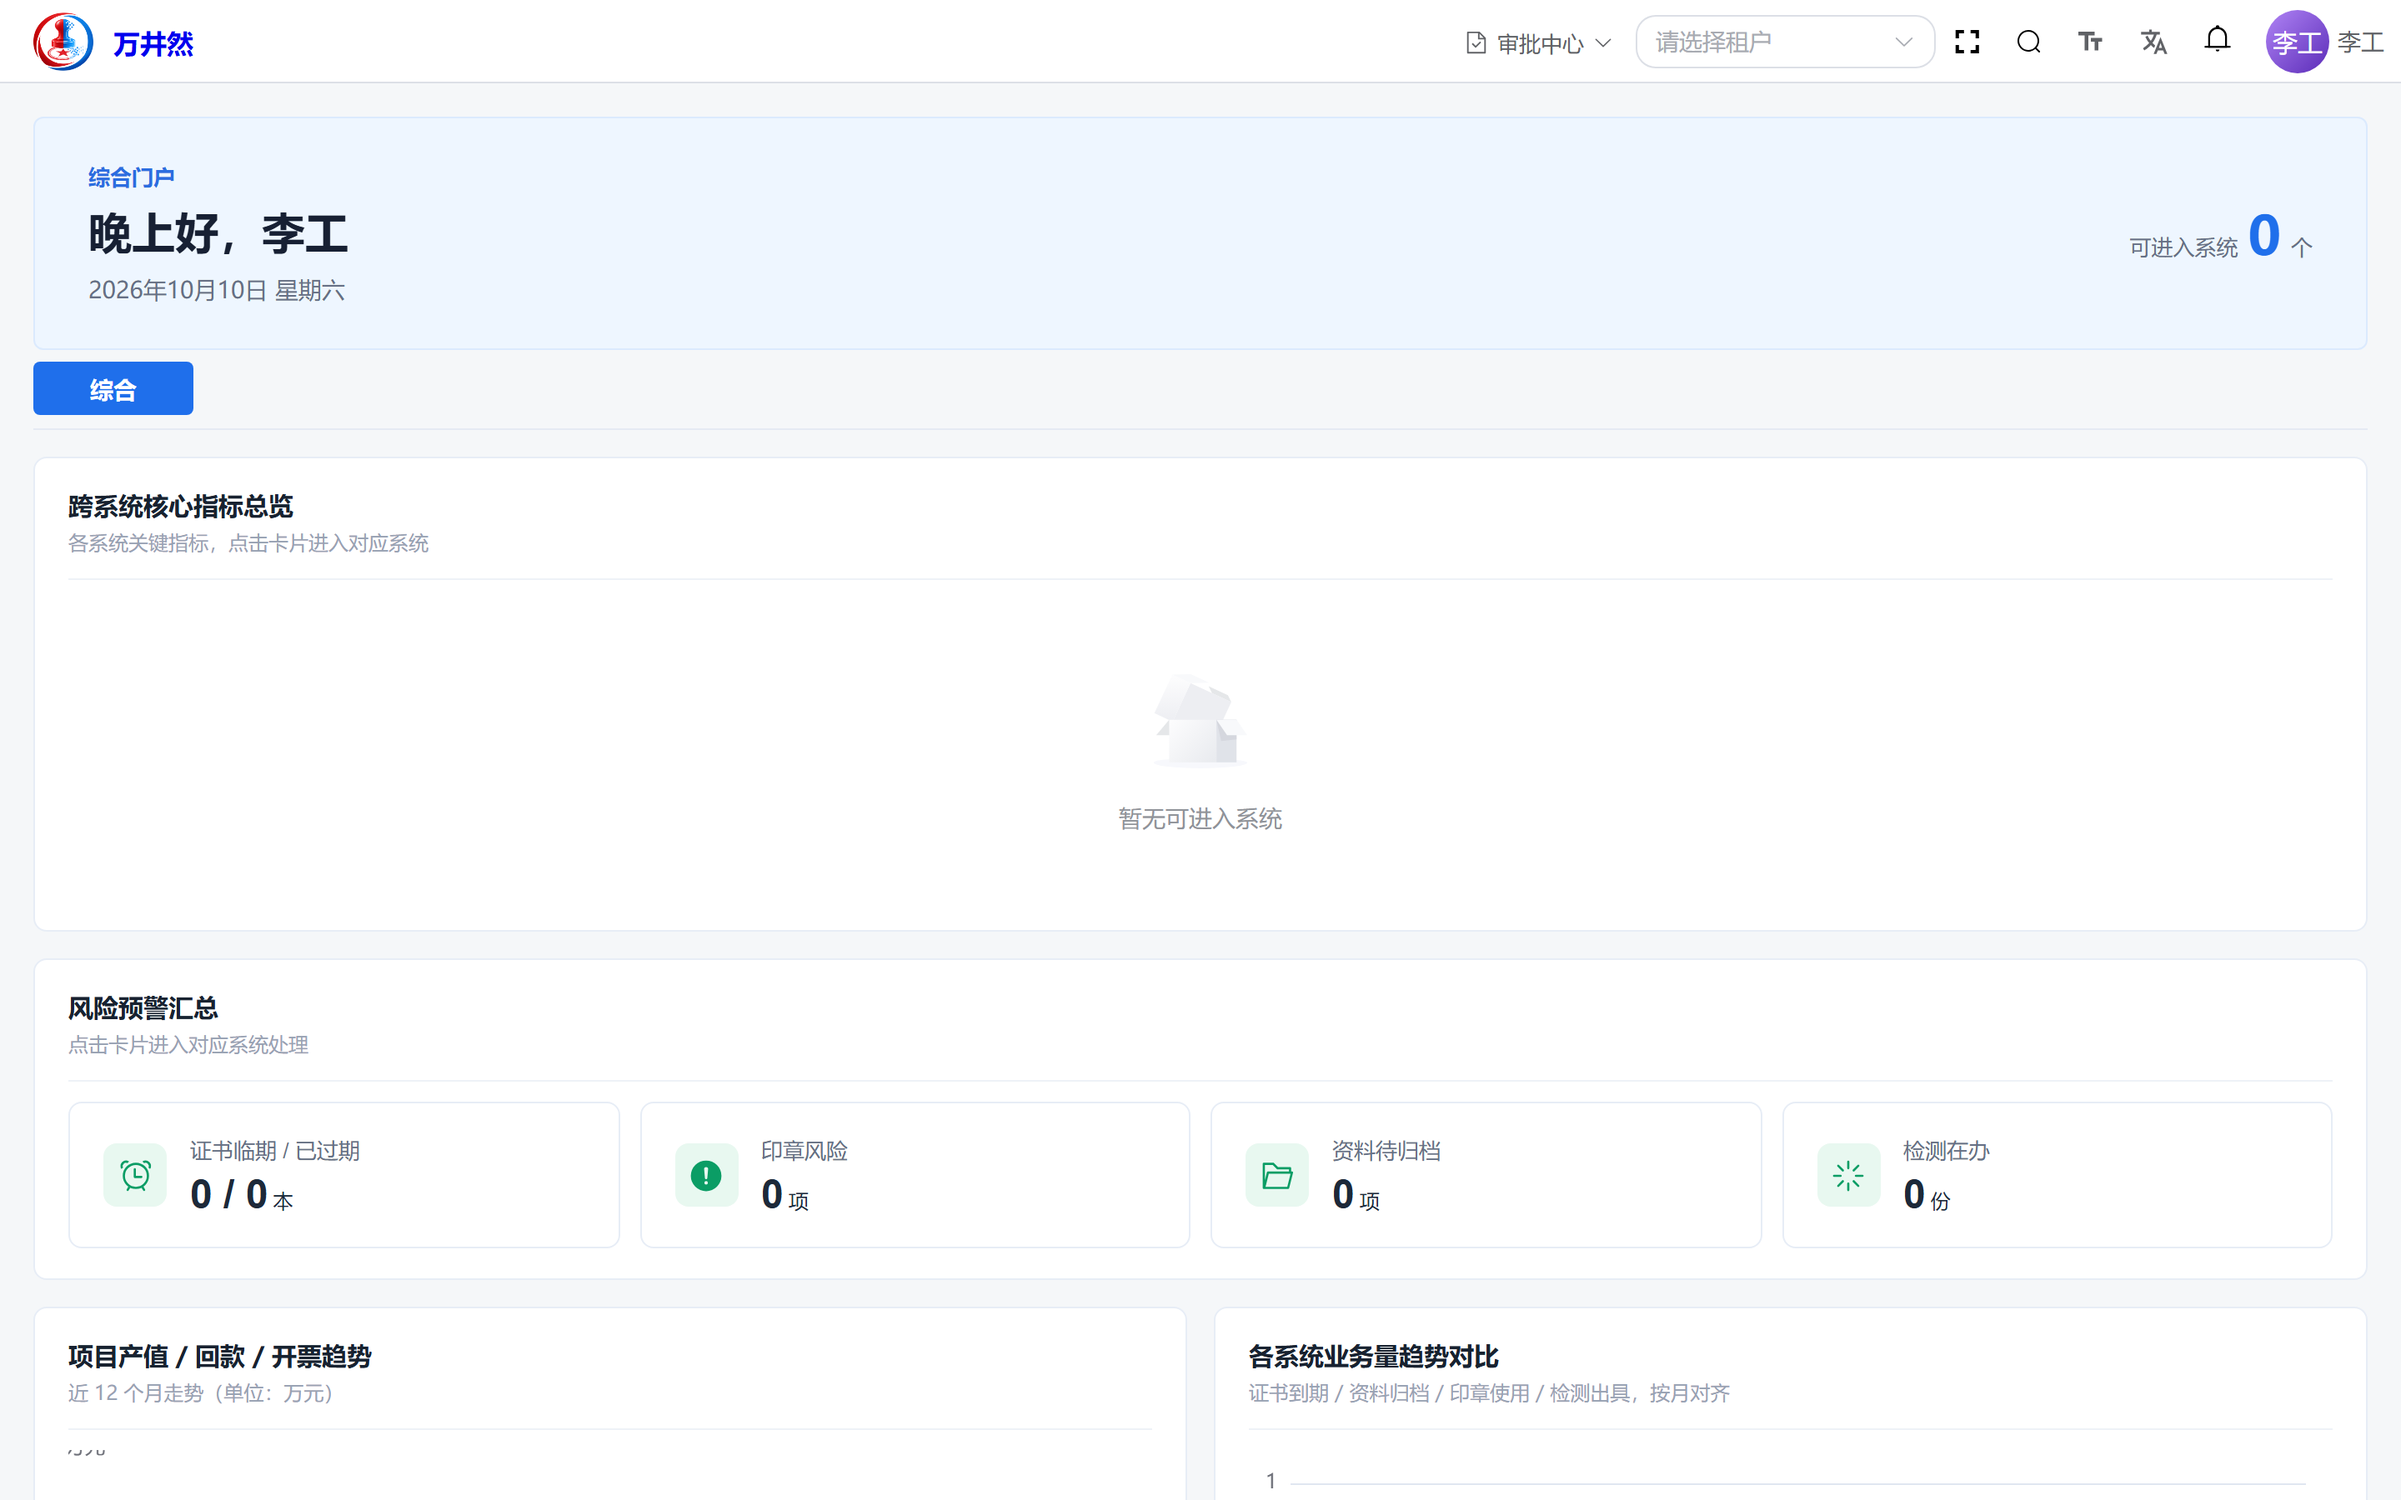
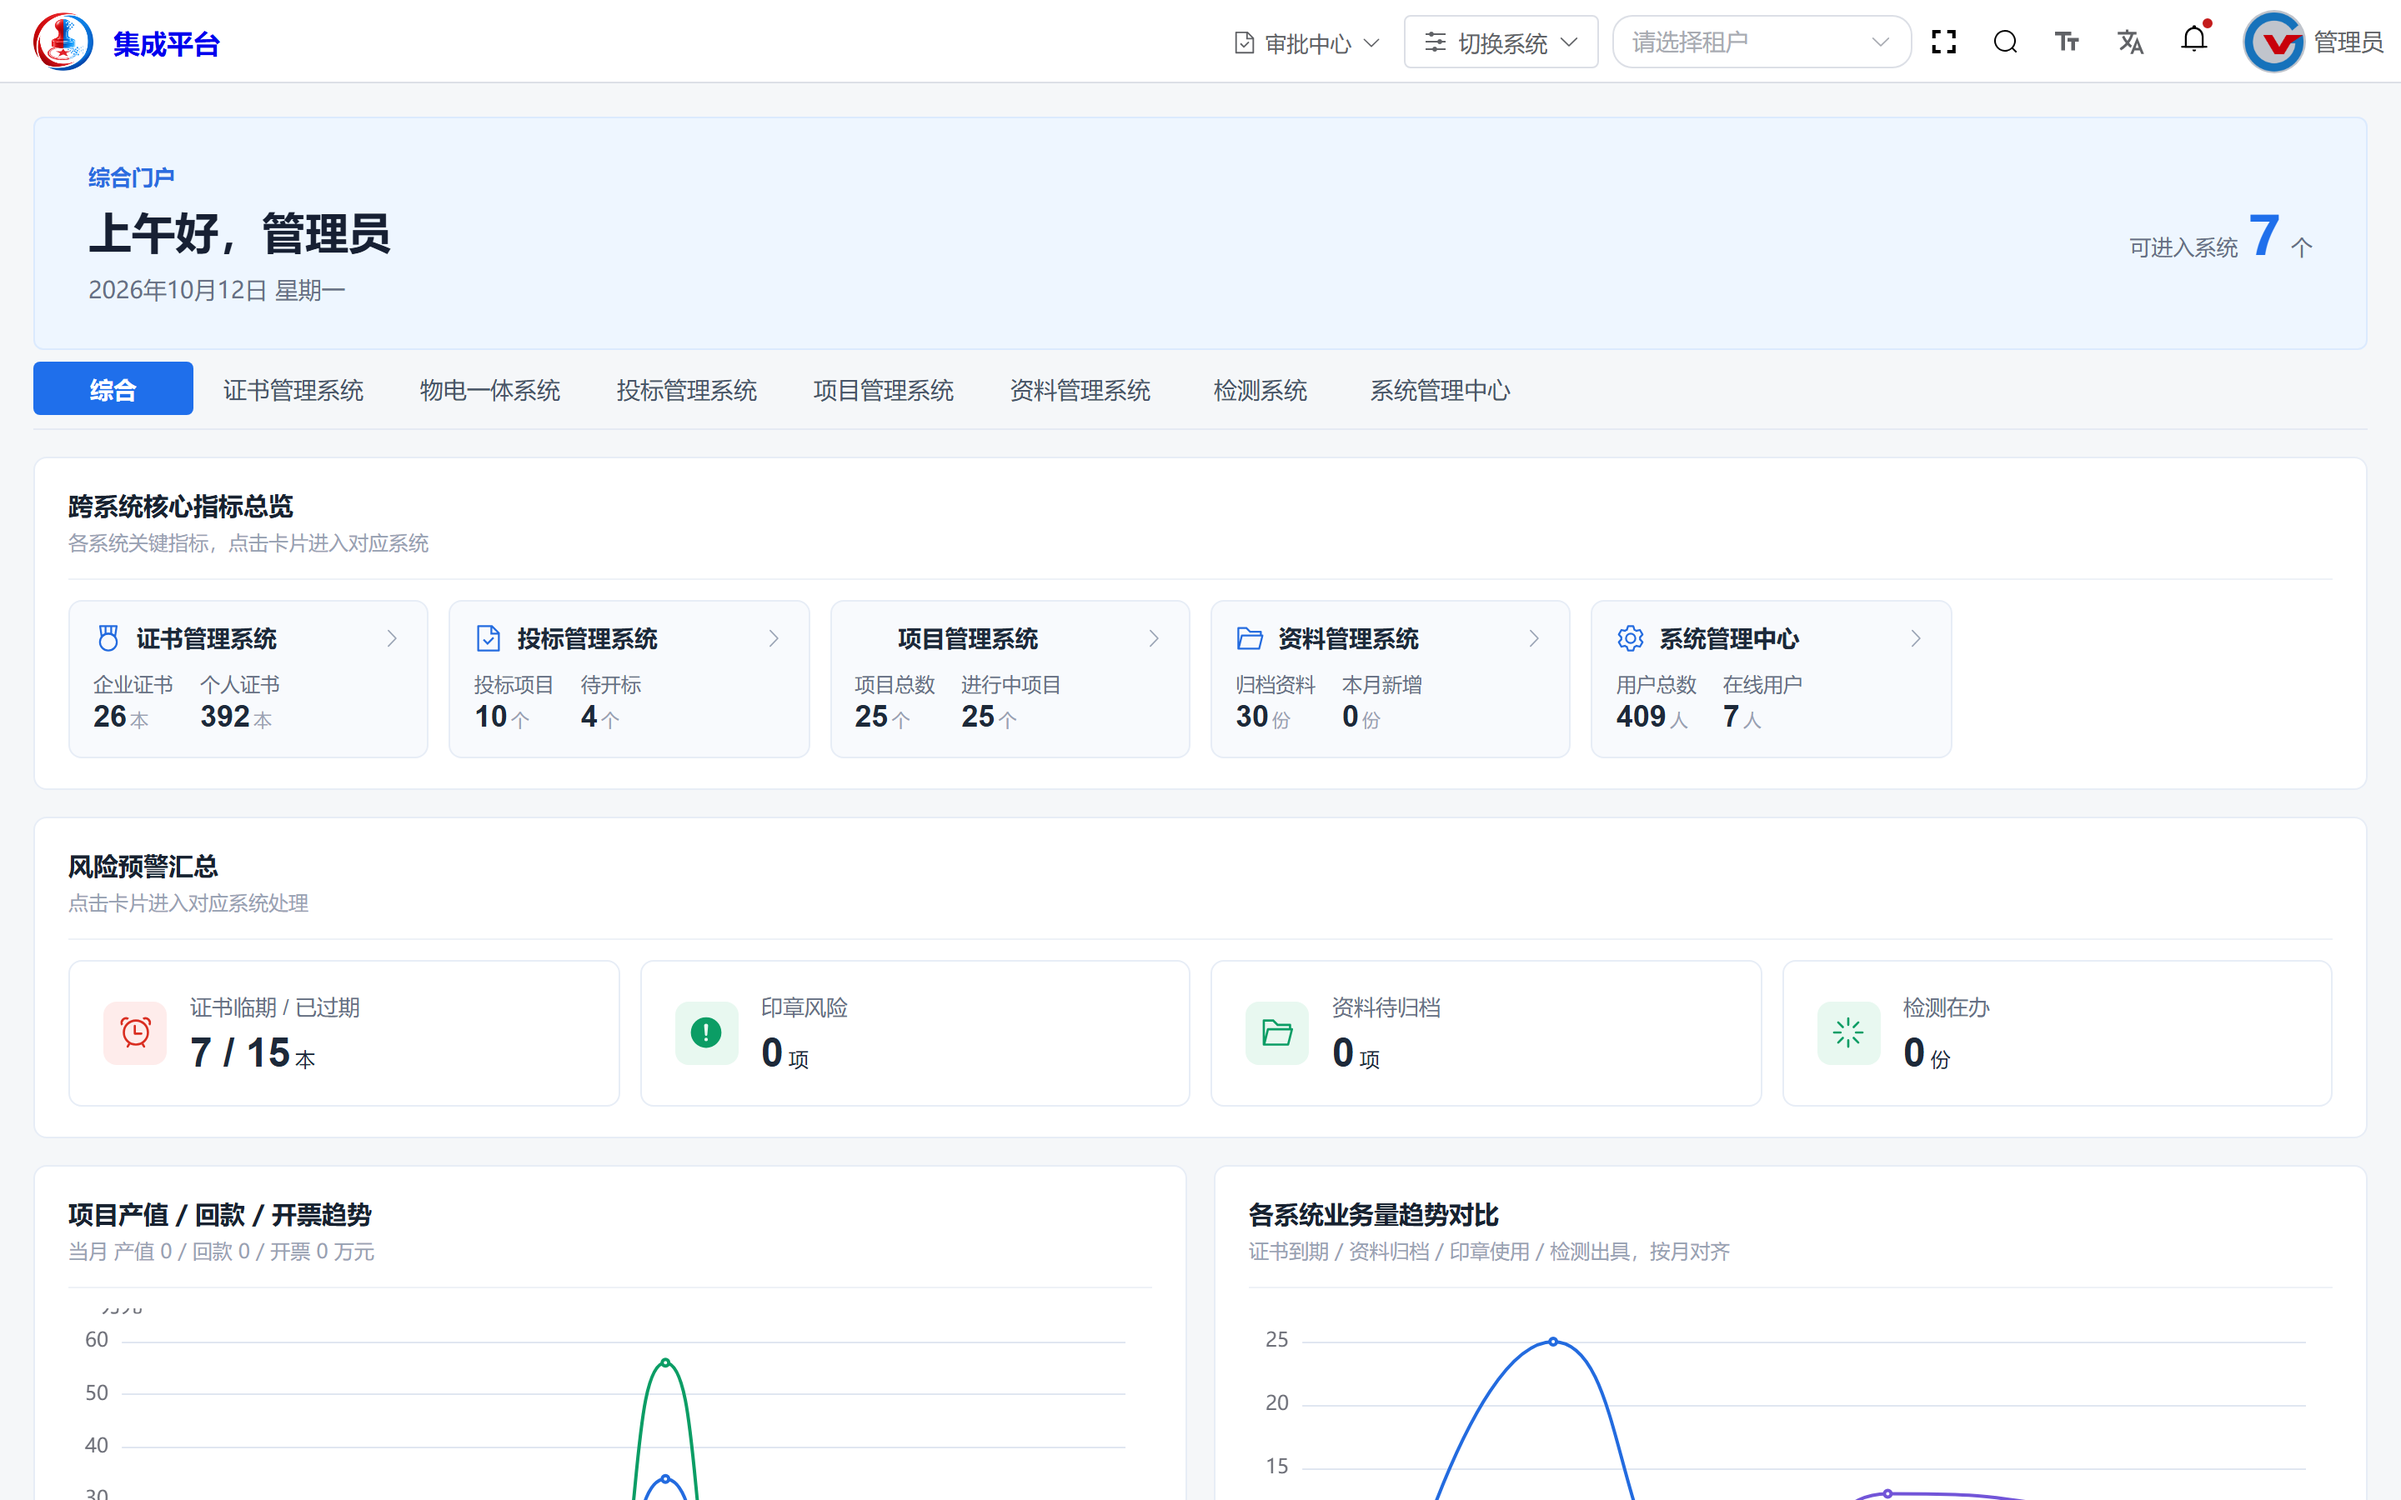
feat: gooyoo 平台条目更名集成平台，换真实系统截图（品牌/客户名已脱敏）

diff --git a/content/projects/gooyoo-platform.md b/content/projects/gooyoo-platform.md
@@ -1,6 +1,6 @@
 ---
 name: gooyoo-platform
-title: gooyoo 企业级业务平台
+title: 集成平台 · 企业级业务系统
 tagline: Spring Boot 3 + Vue3 + uni-app 的多模块企业平台与多客户交付体系
 status: shipped
 category: java
@@ -16,6 +16,7 @@ links: {}
 screenshots:
   - assets/screenshots/gooyoo/demo.gif
   - assets/screenshots/gooyoo/02-home.png
+  - assets/screenshots/gooyoo/04-tab-证书管理系统.png
   - assets/screenshots/gooyoo/01-login.png
   - assets/screenshots/gooyoo/10-m-workbench.png
 order: 1
@@ -39,4 +40,4 @@ biz: 为多家企业客户交付的统一业务底座：一套平台承载客户
 
 ## 当前状态
 
-已上线交付多家企业客户（客户名称已脱敏），持续迭代中。以上截图为示例数据演示。
+已上线交付多家企业客户，持续迭代中。截图来自开发环境真实系统，平台品牌与客户名称已脱敏。
